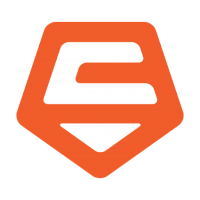
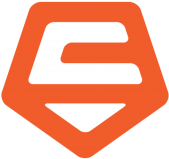
image resizing

diff --git a/src/scripts/modules/contactFormValidation.js b/src/scripts/modules/contactFormValidation.js
@@ -6,40 +6,50 @@ const messageInput = document.getElementById('ContactForm__message');
 const submitButton = document.getElementById('ContactForm__submit-button');
 const EMAIL_REGEX = /^([a-zA-Z0-9_\-\.]+)@((\[[0-9]{1,3}\.[0-9]{1,3}\.[0-9]{1,3}\.)|(([a-zA-Z0-9\-]+\.)+))([a-zA-Z]{2,4}|[0-9]{1,3})(\]?)$/;
 
-function formIsValid() {
-  let validity = true;
-  if(!firstNameInput.value) {
-    validity = false;
-    document.getElementById('error__first-name').style.display = 'block';
-  } else {
-    document.getElementById('error__first-name').style.display = 'none';
-  }
-  if(!lastNameInput.value) {
-    validity = false;
-    document.getElementById('error__last-name').style.display = 'block';
-  } else {
-    document.getElementById('error__last-name').style.display = 'none';
-  }
-  if(!emailAddressInput.value || !EMAIL_REGEX.test(emailAddressInput)) {
-    validity = false;
-    document.getElementById('error__email').style.display = 'block';
-  } else {
-    document.getElementById('error__email').style.display = 'none';
-  }
-  if(!phoneNumberInput.value ||
-     phoneNumberInput.value[0] === '0' ||
-     phoneNumberInput.value.length < 10 ||
-     phoneNumberInput.value.length > 11) {
-    validity = false;
-    document.getElementById('error__phone').style.display = 'block';
-  } else {
-    document.getElementById('error__phone').style.display = 'none';
-  }
-  if(!messageInput.value) {
-    validity = false;
-    document.getElementById('error__message').style.display = 'block';
-  } else {
-    document.getElementById('error__message').style.display = 'none';
-  }
-  return validity;
+const formIsValid = () => {
+    console.log('hi');
+    const firstNameInput = document.getElementById('ContactForm__first-name');
+    const lastNameInput = document.getElementById('ContactForm__last-name');
+    const phoneNumberInput = document.getElementById('ContactForm__phone');
+    const emailAddressInput = document.getElementById('ContactForm__email');
+    const messageInput = document.getElementById('ContactForm__message');
+    const submitButton = document.getElementById('ContactForm__submit-button');
+    const EMAIL_REGEX = /^([a-zA-Z0-9_\-\.]+)@((\[[0-9]{1,3}\.[0-9]{1,3}\.[0-9]{1,3}\.)|(([a-zA-Z0-9\-]+\.)+))([a-zA-Z]{2,4}|[0-9]{1,3})(\]?)$/;
+    let validity = true;
+    if(!firstNameInput.value) {
+        validity = false;
+        document.getElementById('error__first-name').style.visibility = 'visibile';
+      } else {
+        document.getElementById('error__first-name').style.visibility = 'hidden';
+    }
+    if(!lastNameInput.value) {
+        validity = false;
+        document.getElementById('error__last-name').style.visibility = 'visibile';
+      } else {
+        document.getElementById('error__last-name').style.visibility = 'hidden';
+    }
+    if(!emailAddressInput.value || !EMAIL_REGEX.test(emailAddressInput)) {
+        validity = false;
+        document.getElementById('error__email').style.visibility = 'visibile';
+      } else {
+        document.getElementById('error__email').style.visibility = 'hidden';
+    }
+    if(!phoneNumberInput.value ||
+       phoneNumberInput.value[0] === '0' ||
+       phoneNumberInput.value.length < 10 ||
+       phoneNumberInput.value.length > 11) {
+        validity = false;
+        document.getElementById('error__phone').style.visibility = 'visibile';
+      } else {
+        document.getElementById('error__phone').style.visibility = 'hidden';
+    }
+    if(!messageInput.value) {
+        validity = false;
+        document.getElementById('error__message').style.visibility = 'visibile';
+    } else {
+        document.getElementById('error__message').style.visibility = 'hidden';
+    }
+    return validity;
 }
+
+export default formIsValid;

diff --git a/src/scripts/components/Resume.js b/src/scripts/components/Resume.js
@@ -9,6 +9,7 @@ import publicationData from '../../data/publications';
 import awardData from '../../data/awards';
 import Certificate from './Certificate'
 import certificateData from '../../data/certificates';
+import resumePDF from '../../data/files/RaymondFerrellResume.pdf';
 import '../../styles/Resume.css';
 
 class Resume extends Component {
@@ -23,7 +24,7 @@ class Resume extends Component {
       <div className="Resume">
         <ResumeInfo contactInfo={contactInfoData} />
         <div className="Resume__content">
-          <a className="Resume__download-link" download="%PUBLIC_URL%/../src/data/RaymondFerrellResume">
+          <a className="Resume__download-link" href={resumePDF} target="_blank">
             <button className="Resume__download-button">download resume pdf</button>
           </a>
           <div className="Experiences Resume__experience">
@@ -60,6 +61,7 @@ class Resume extends Component {
         logo={ex.logo}
         startDate={ex.startDate}
         endDate={ex.endDate}
+        location={ex.location}
         achievements={ex.achievements} />
     );
   }

diff --git a/src/scripts/components/ContactForm.js b/src/scripts/components/ContactForm.js
@@ -1,4 +1,5 @@
 import React, { Component } from 'react';
+import formIsValid from '../modules/contactFormValidation';
 import '../../styles/ContactForm.css';
 
 class ContactForm extends Component {
@@ -36,7 +37,13 @@ class ContactForm extends Component {
 
   _handleSubmit(event){
      event.preventDefault();
-     //this.props.addEntry(this._name.value, this._email.value, this._phone.value, this._message.value);
+     if(formIsValid()) {
+       this.props.addEntry(
+         this._name.value,
+         this._email.value,
+         this._phone.value,
+         this._message.value);
+     }
   }
 }
 

diff --git a/src/scripts/components/Experience.js b/src/scripts/components/Experience.js
@@ -10,6 +10,7 @@ class Experience extends Component {
           <h4 className="Experience__date">{`${this.props.startDate} - ${this.props.endDate}`}</h4>
           <h3 className="Experience__title">{this.props.title}</h3>
           <h4 className="Experience__company">{this.props.company}</h4>
+          {this.props.location && <h4 className="Experience__location">{this.props.location}</h4>}
           <ul className="Experience__achievements">
             {achievements}
           </ul>

diff --git a/src/styles/Certificate.css b/src/styles/Certificate.css
@@ -1,12 +1,18 @@
 .Certificate-home {
   margin: 1rem 2rem;
   width: 12rem;
+  display: flex;
+  flex-direction: column;
+  justify-content: space-between;
 }
 
-.Certificate-home img {
-    height: 7rem;
-    width: 7rem;
-    margin-bottom: 0.75rem;
+.Certificate-home__logo {
+  display: block;
+  margin: auto;
+  max-width: 7rem;
+  max-height: 5rem;
+  width: auto;
+  height: auto;
 }
 
 .Certificate-home p {

diff --git a/src/styles/Resume.css b/src/styles/Resume.css
@@ -24,8 +24,10 @@
 
 .Resume__experience img {
   float: left;
-  height: 4.5rem;
-  width: 7rem;
+  max-width: 8rem;
+  max-height: 5rem;
+  width: auto;
+  height: auto;
 }
 
 .Experience__title, .Certificate__name, .Publication__title, .Award__title {

diff --git a/src/styles/Org.css b/src/styles/Org.css
@@ -14,6 +14,14 @@
 }
 
 .Org__logo {
-  margin-top: 8rem;
-  height: 8rem;
+  display: block;
+  margin: auto;
+  max-width: 20rem;
+  max-height: 12rem;
+  width: auto;
+  height: auto;
+}
+
+.Community-volunteer {
+  flex-direction: row-reverse;
 }

diff --git a/src/styles/ContactForm.css b/src/styles/ContactForm.css
@@ -56,6 +56,6 @@ textarea {
 
 .error-message {
   color: red;
-  display: block;
+  visibility: hidden;
   margin: 0.25rem 0;
 }
